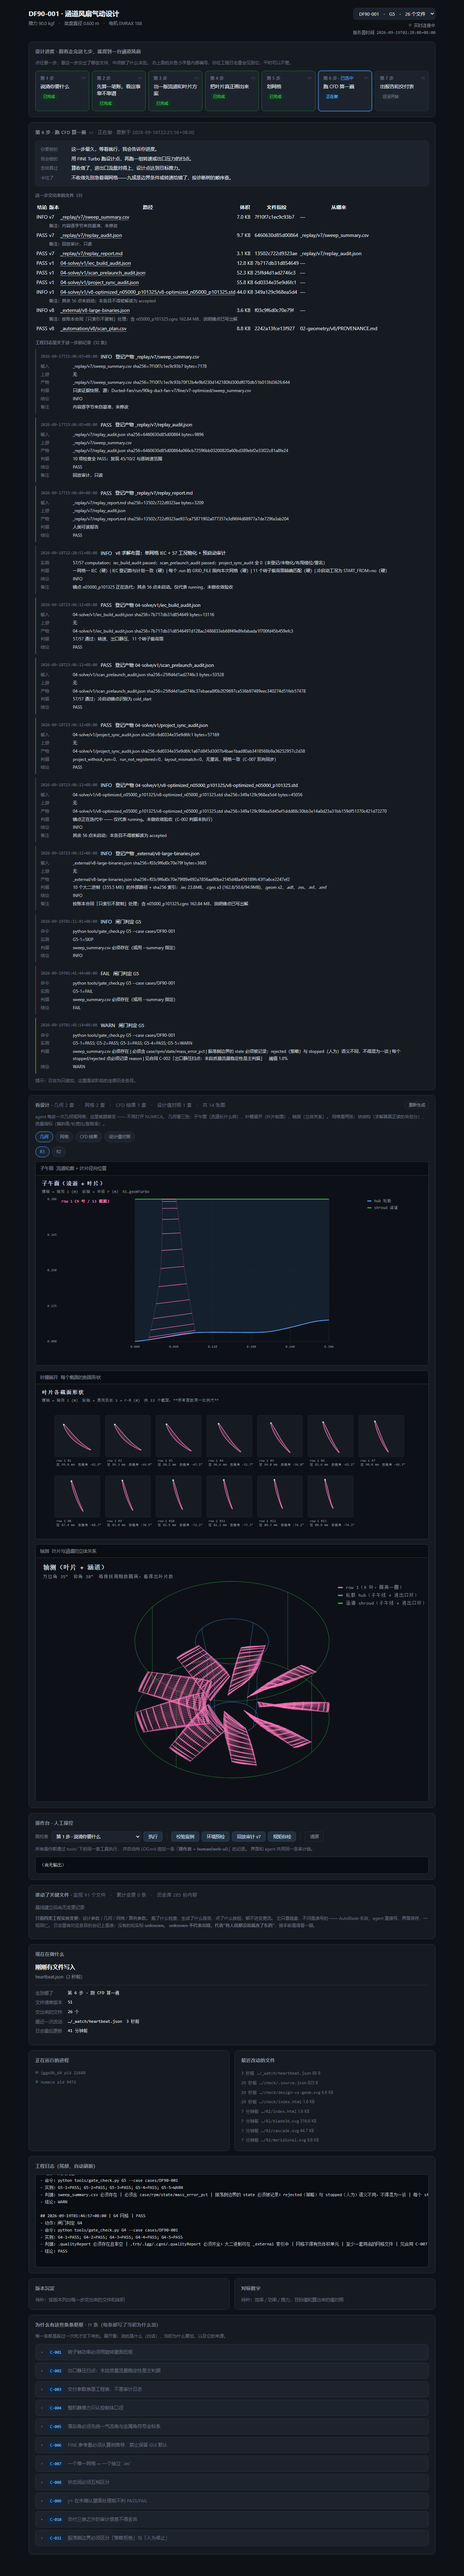
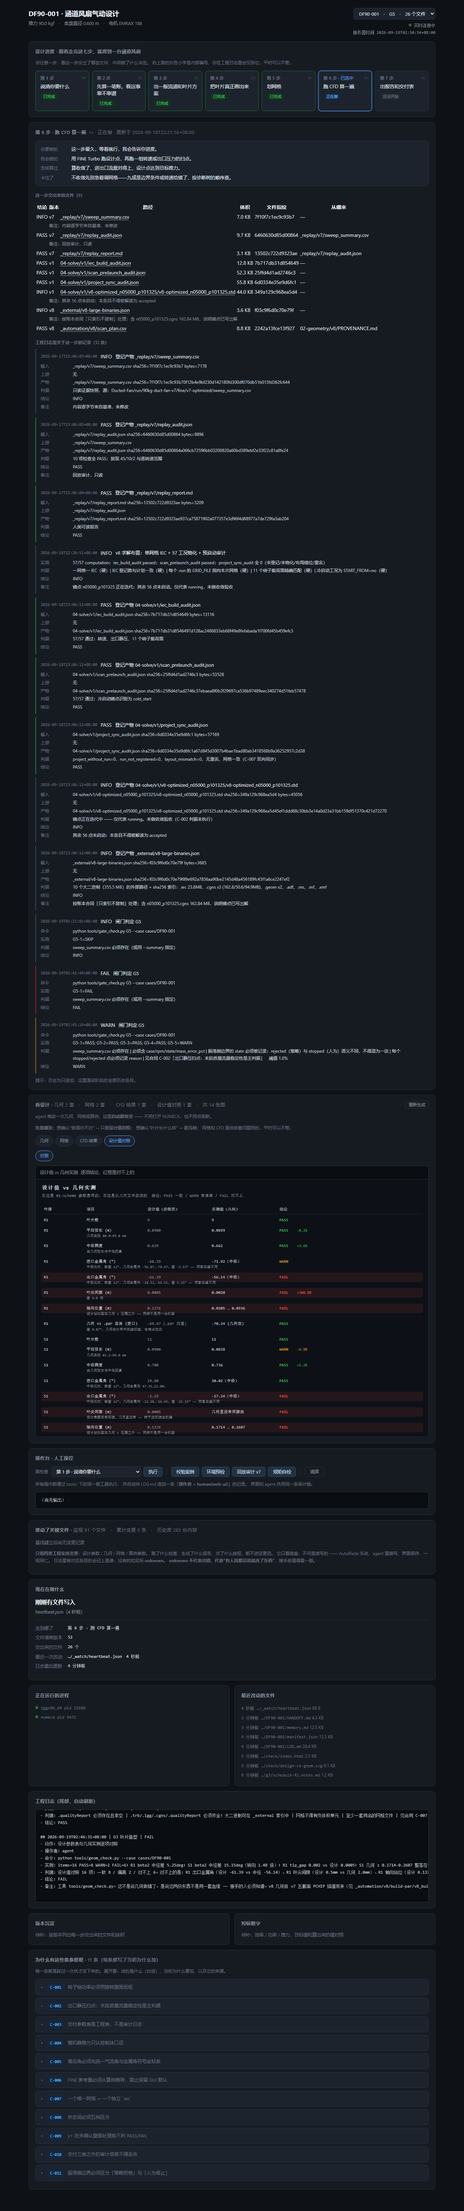
fix(check): 消掉两处假警报 —— 静子不判叶尖间隙，轴向站位不武断判 FAIL
报不该报的 FAIL 比漏报更伤信任。两处都是我的判据错，不是几何错：

1. 静子叶尖间隙：R2 是静子，不转、没有叶尖泄漏，几何里没有间隙块是**对的**。
   参数表却给 S1 也写了 0.0005 m。第一版见到'几何里没有间隙块'就判 FAIL。
   现在按类型分：转子必须有间隙块且与设计值比；静子无间隙块判 PASS 并说明理由。

2. 轴向位置：参数表的'轴向坐标'一列**没注明含义**（进口？出口？重心？），
   拿它跟几何 z 范围比然后判 FAIL 是武断的。降为 WARN，说明清楚让人自己判断。

结论从 8/2/6 变成 9 一致 / 4 偏离 / 3 对不上。
三条 FAIL 都站得住：R1 出口金属角差 5.25°、R1 叶尖间隙 0.5 vs 2.0mm、
S1 出口金属角差 15.15°（转向 1.48 倍）。

diff --git a/tools/geom_check.py b/tools/geom_check.py
@@ -336,16 +336,31 @@ def build_rows(case: Path):
                         % (rec["beta%s_par_root" % which], rec["beta%s_par_tip" % which])
                         + ("" if ok else "差 %.2f° —— 两者血缘不同" % delta),
             })
-        # 叶尖间隙：设计表写了，几何里也有，必须比 —— 这是审核点名的漏项
+        # 叶尖间隙。
+        # **静子不该有叶尖间隙块** —— 它不转，没有叶尖泄漏。参数表却给 S1 也写了
+        # 0.0005 m。第一版见到"几何里没有间隙块"就判 FAIL，那是**假警报**：
+        # 报不该报的 FAIL 比漏报更伤信任。判据要按类型分：
+        #   转子：必须有间隙块，且与设计值比
+        #   静子：几何没有间隙块是对的；参数表写间隙是表自己的定义问题
         tg_d = fnum(r.get("叶尖间隙(m)"))
         tg_g = rec.get("tip_gap_geom")
+        is_rotor = (r.get("类型", "").strip().lower() == "rotor")
         if tg_d is not None:
-            if tg_g is None:
+            if tg_g is None and not is_rotor:
+                out["items"].append({
+                    "row": n, "what": "叶尖间隙 (m)",
+                    "design": "%.4f（参数表）" % tg_d,
+                    "actual": "几何无间隙块",
+                    "verdict": "PASS",
+                    "note": "静子不转、没有叶尖泄漏，几何没有间隙块是对的。"
+                            "参数表给静子写间隙值属于表本身的定义不清。",
+                })
+            elif tg_g is None:
                 out["items"].append({
                     "row": n, "what": "叶尖间隙 (m)",
                     "design": "%.4f" % tg_d, "actual": "几何里没有间隙块",
                     "verdict": "FAIL",
-                    "note": "设计表要求有间隙，几何里没有 —— 转子没间隙会刮蹭",
+                    "note": "转子必须有叶尖间隙，几何里没有 —— 会刮蹭",
                 })
             else:
                 dev = (tg_g - tg_d) / tg_d if tg_d else 0
@@ -357,16 +372,27 @@ def build_rows(case: Path):
                     "note": "" if v == "PASS" else "差 %.1f 倍" % (tg_g / tg_d if tg_d else 0),
                 })
 
-        # 轴向位置：设计表给了站位，几何有实际 z 范围 —— 对不上说明不是同一台机器
+        # 轴向位置：设计表的"轴向坐标"含义没注明（进口？出口？重心？），
+        # 所以**不能武断判 FAIL** —— 只报重叠情况，让人自己判断。
         z_d = fnum(r.get("轴向坐标(m)"))
         if z_d is not None and rec.get("z_min") is not None:
             inside = rec["z_min"] - 0.005 <= z_d <= rec["z_max"] + 0.005
+            gap = 0.0
+            if z_d < rec["z_min"]:
+                gap = rec["z_min"] - z_d
+            elif z_d > rec["z_max"]:
+                gap = z_d - rec["z_max"]
+            note = ""
+            if not inside:
+                note = ("设计站位在几何 z 范围外 %.3f m。参数表那一列没写清是"
+                        "进口/出口/重心，所以这不一定表示错位，"
+                        "但两排的轴向关系值得确认。") % gap
             out["items"].append({
                 "row": n, "what": "轴向位置 (m)",
-                "design": "%.4f" % z_d,
+                "design": "%.4f（含义未注明）" % z_d,
                 "actual": "%.4f … %.4f" % (rec["z_min"], rec["z_max"]),
-                "verdict": "PASS" if inside else "FAIL",
-                "note": "" if inside else "设计站位落在几何 z 范围之外 —— 两排不是同一台机器",
+                "verdict": "PASS" if inside else "WARN",
+                "note": note,
             })
 
         # 几何估计 vs .par 真值：验证"画出来的形状"与"参数文件"一致

diff --git a/cases/DF90-001/LOG.md b/cases/DF90-001/LOG.md
@@ -471,3 +471,12 @@
 - 结论：FAIL
 - 备注：工具 tools/geom_check.py。这不是说几何做错了，是说这两份东西不是同一套血缘 —— 接手的人必须知道。v8 几何由 v7 五截面 PCHIP 插值而来（见 _automation/v8/build-par/v8_build_manifest.json），不是从本案例的 G2 表导出的。
 
+## 2026-09-19T02:53:46+08:00 | G3 叶片造型 | FAIL
+- 动作：设计参数表与几何实测逐项对照（判据收紧后复跑）
+- 操作者：agent
+- 命令：python tools/geom_check.py --case cases/DF90-001
+- 实测：items=16 PASS=9 WARN=4 FAIL=3；R1 beta2 中径差 5.25deg；S1 beta2 中径差 15.15deg（转向 1.48 倍）；R1 tip_gap 0.002 vs 设计 0.0005；S1 几何 z 0.1714-0.2607 落在设计站位 0.1376 下游（该列含义未注明，记 WARN）
+- 判据：设计值对照 16 项：一致 9 / 偏离 4 / 对不上 3。三条对不上：R1 出口金属角（设计 -61.39 vs 中径 -56.14）、R1 叶尖间隙（设计 0.5mm vs 几何 2.0mm）、S1 出口金属角（设计 -2.19 vs 中径 -17.34）。四条偏离：R1 进口金属角差 3.5°、R1/S1 轴向站位含义待确认、S1 弦长差 6.9%。结论：本案例 02-geometry/v8 的几何不是从 01-scheme/v1 这两张表导出的，两者血缘不同。
+- 结论：FAIL
+- 备注：工具 tools/geom_check.py。判据收紧：金属角改中径±2度（原为落在叶根叶尖区间内，跨度25度时形同虚设）；补叶尖间隙与轴向位置；静子不判叶尖间隙（静子不转，几何无间隙块是对的，原判 FAIL 是假警报）。
+
